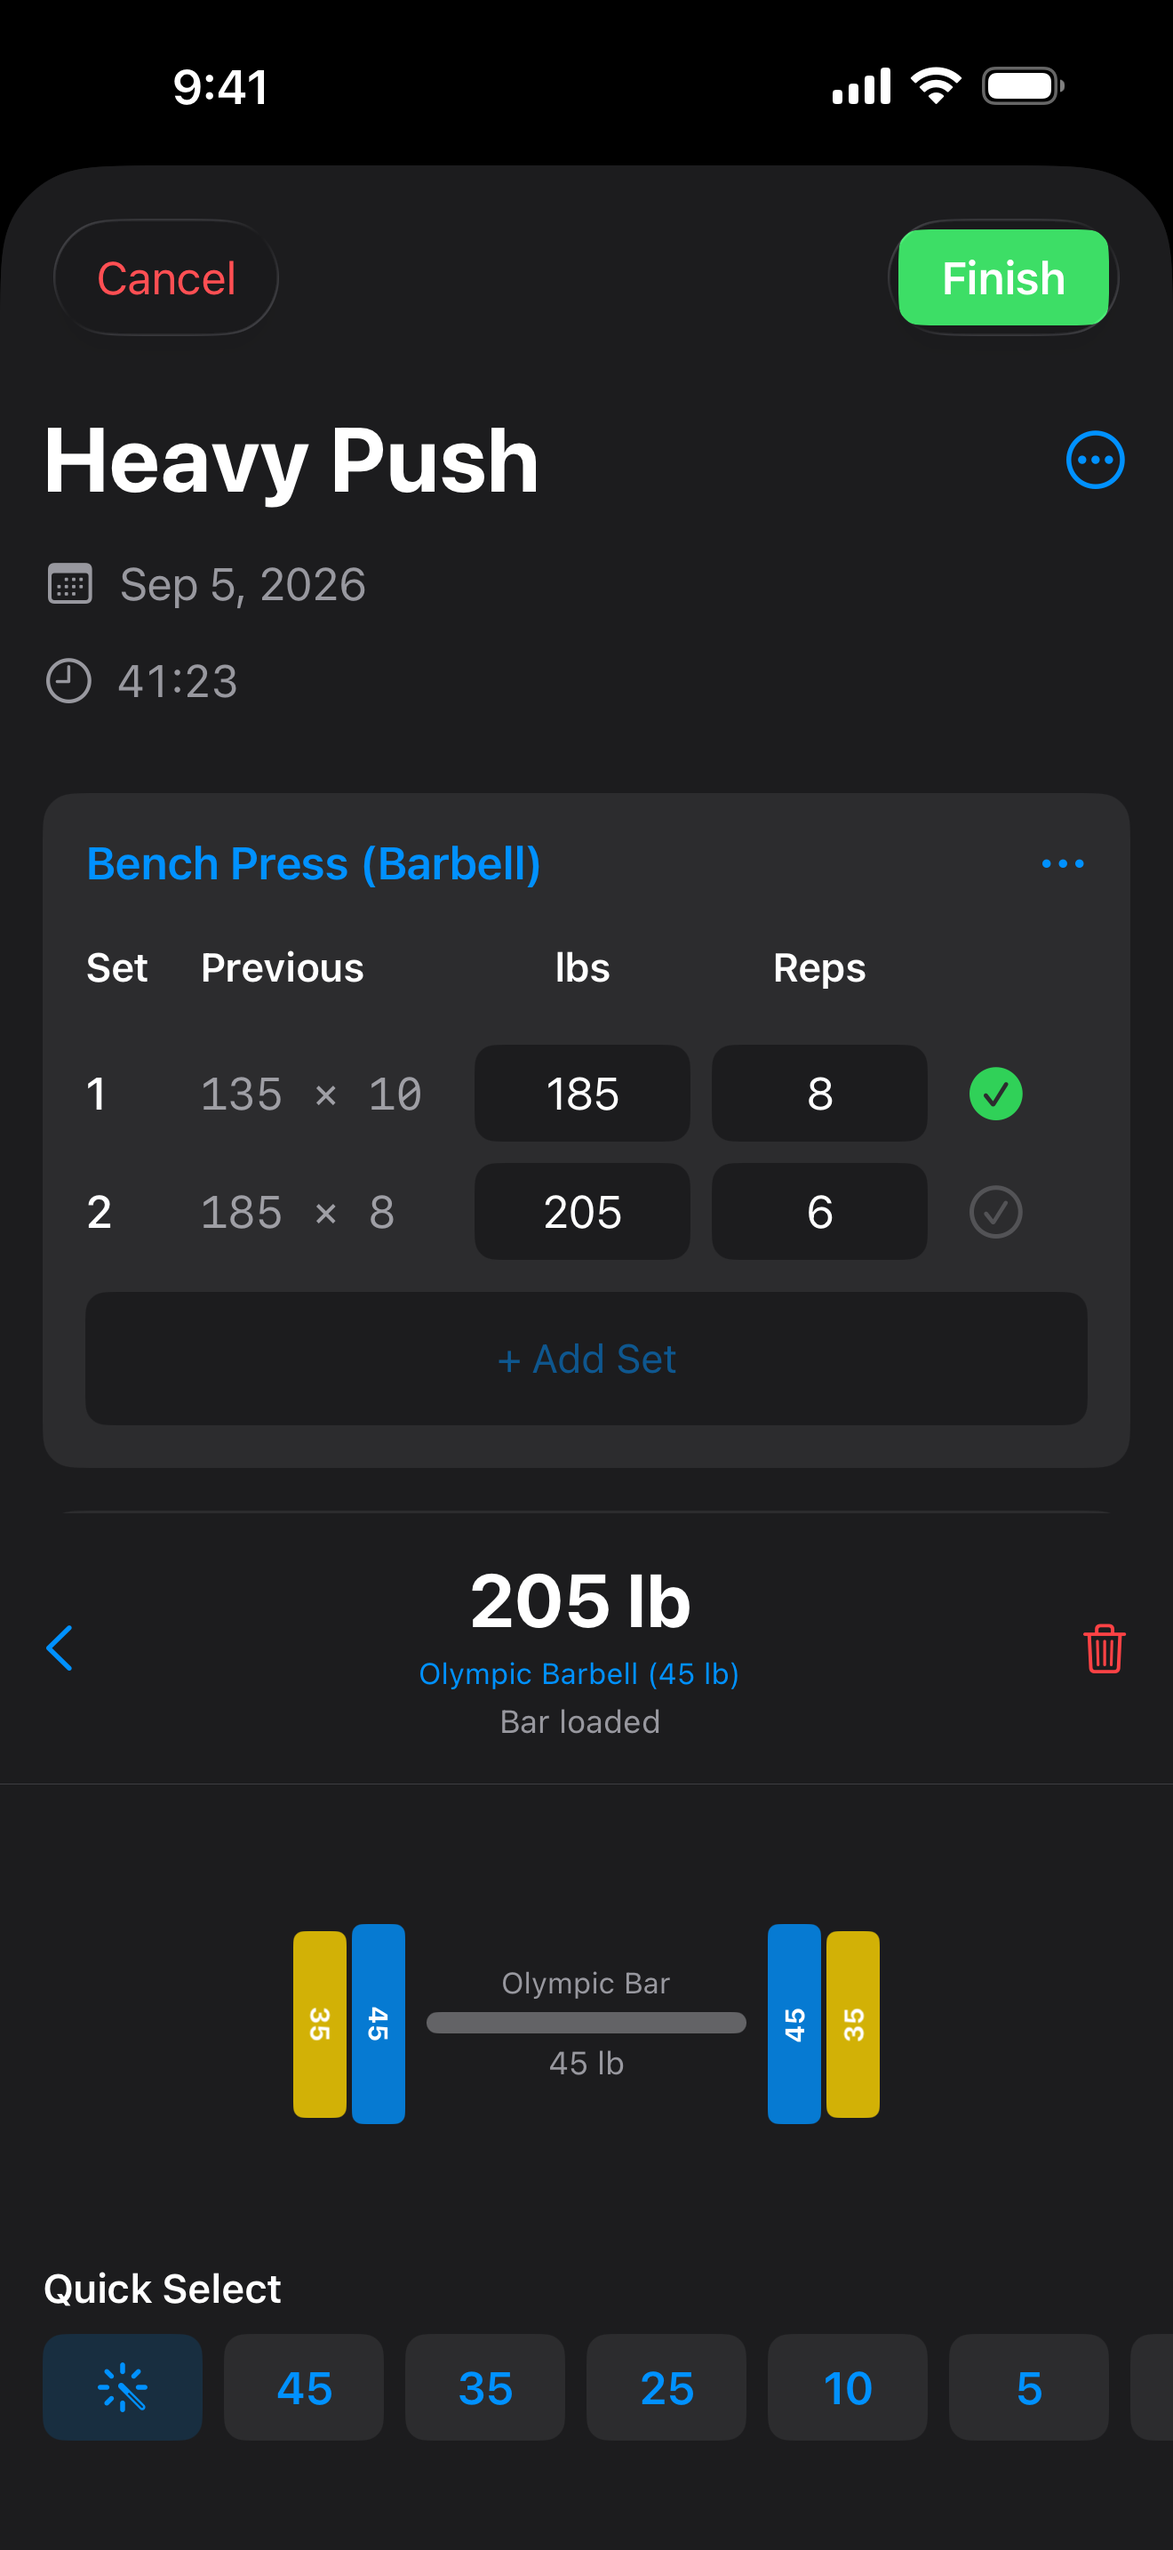
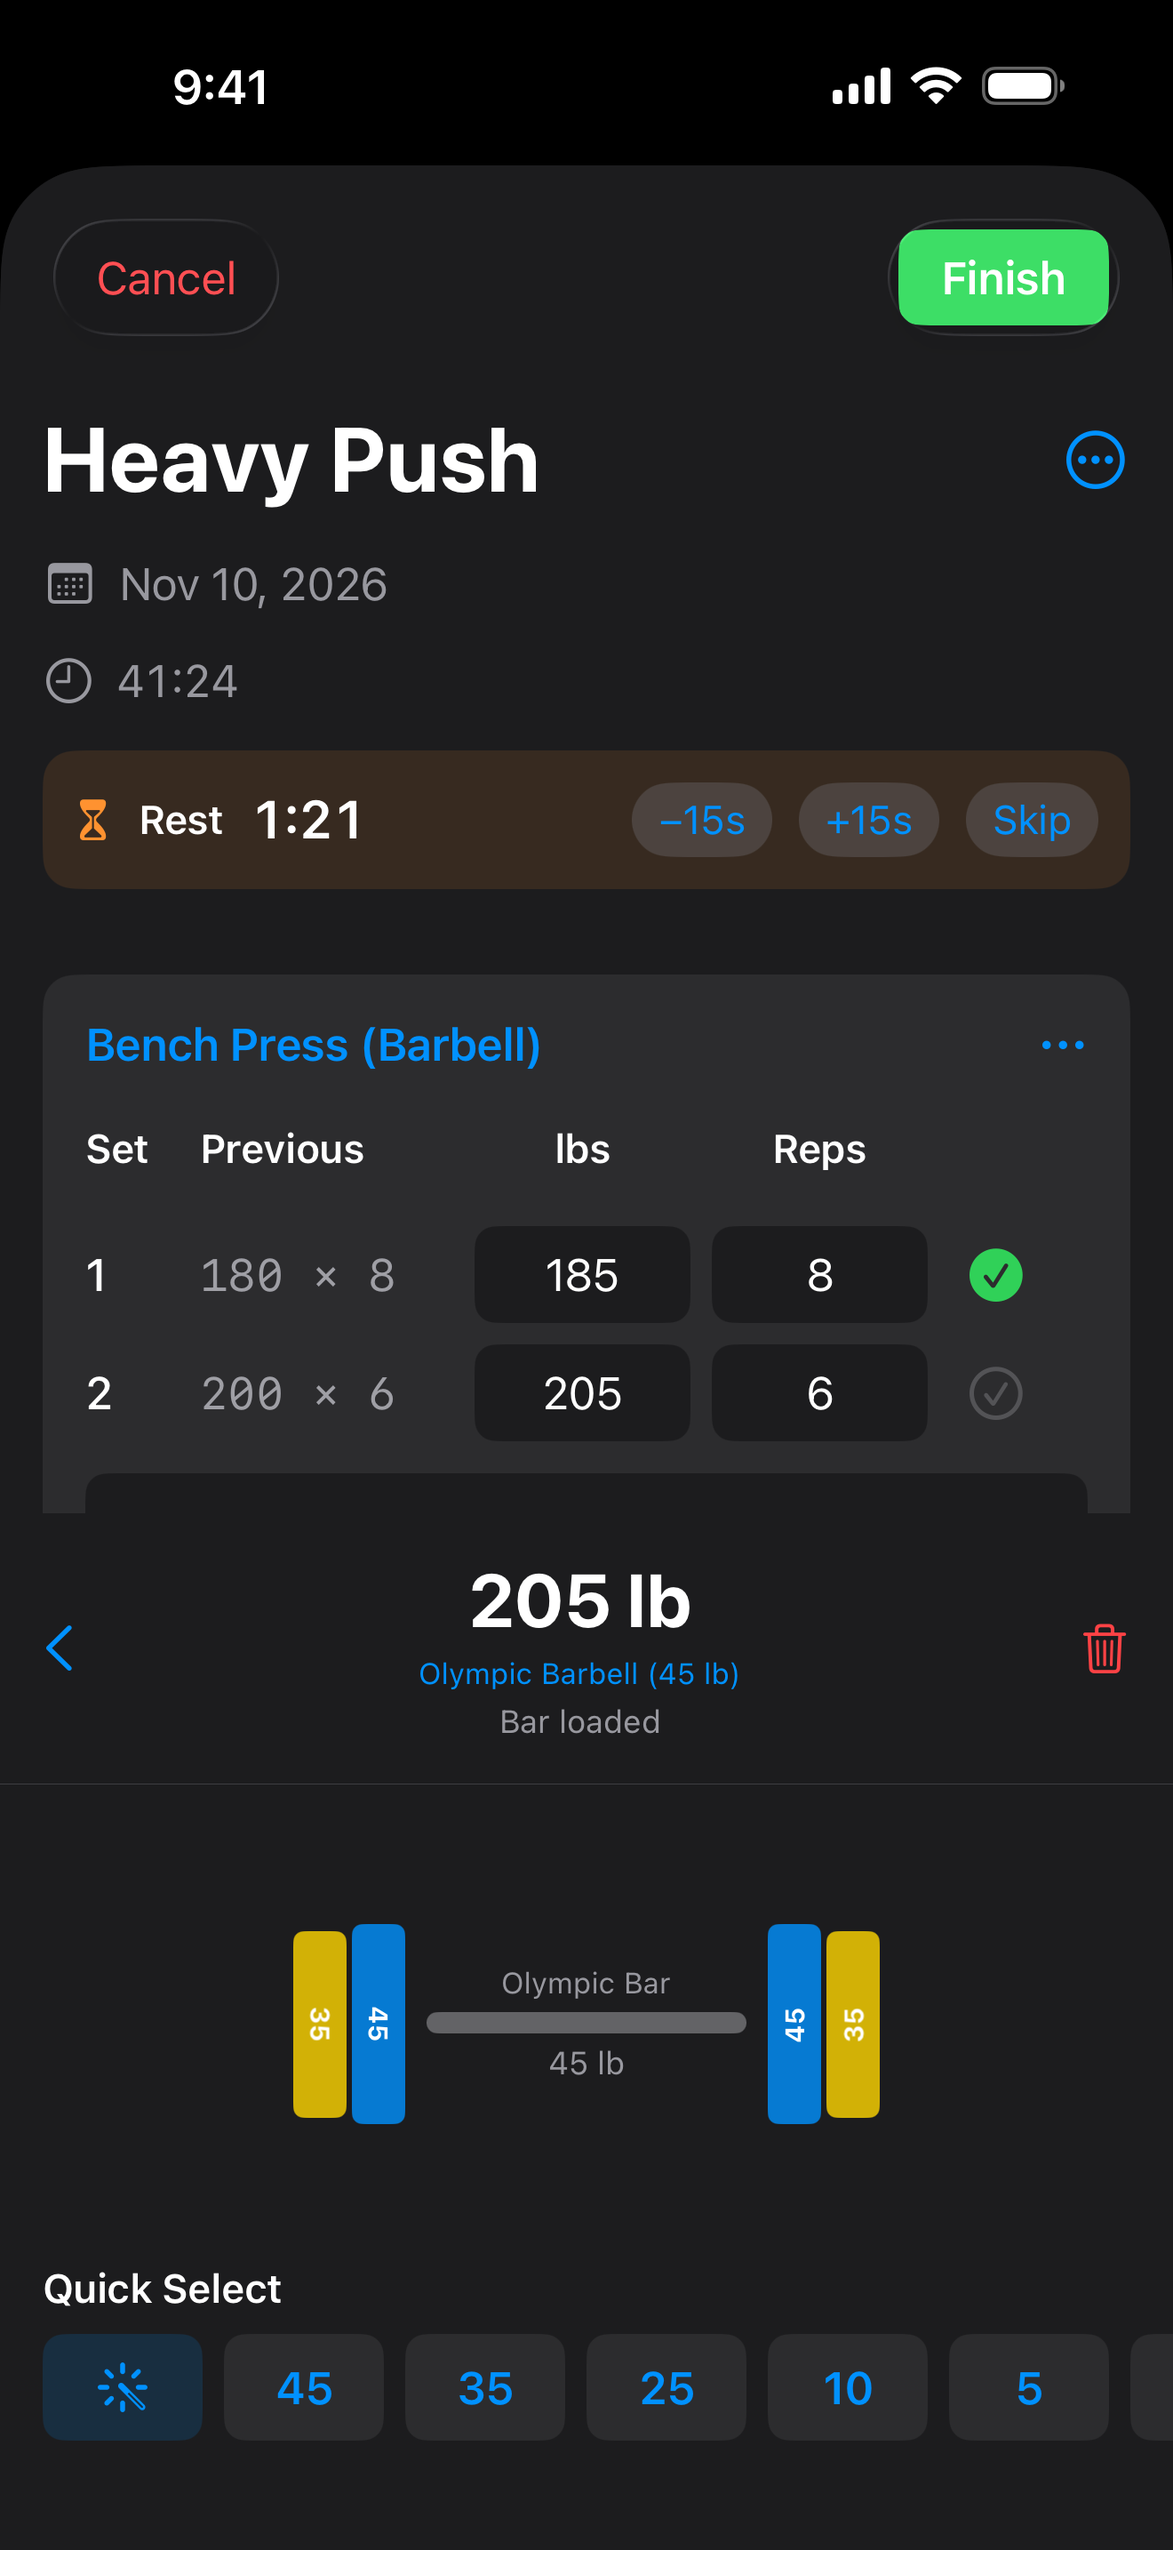
STORY_013: the store screenshots tell the watch story
Shot 1 is the active workout with the watch linked (♥ 128 · On watch, rest counting),
captioned "Start on your Apple Watch"; the old hero moves to shot 3; eight shots per
slot. Ashton is the demo lifter everywhere a screenshot shows a name. FLEX_DEMO_WATCH
gives demo launches a pretend watch through a DEBUG seam in PhoneMirrorHost. All three
sets re-captured on 1.1.0; screenshots.sh clears shotkit's output folder before rendering.

diff --git a/Flex/Flex/Support/DemoMode.swift b/Flex/Flex/Support/DemoMode.swift
@@ -6,15 +6,24 @@ import SwiftData
 ///
 /// - `FLEX_DEMO=sample` (or `1`): in-memory store filled with realistic sample data, signed in, welcome dismissed.
 /// - `FLEX_DEMO=empty`: in-memory store with only the bundled exercise library.
-/// - `FLEX_THEME=Light|Dark|System`, `FLEX_TAB=profile|history|exercises|workout`, `FLEX_USER_NAME=…`,
-///   `FLEX_DEMO_WORKOUT_OFFSET=-2460` (seconds; makes a new workout look like it started 41 minutes ago).
+/// - `FLEX_THEME=Light|Dark|System`, `FLEX_TAB=profile|history|exercises|workout`, `FLEX_USER_NAME=…`
+///   (Ashton unless set, STORY_013),
+///   `FLEX_DEMO_WORKOUT_OFFSET=-2460` (seconds; makes a new workout look like it started 41 minutes ago),
+///   `FLEX_DEMO_WATCH=128` (pretends a watch is linked at that heart rate, so the active workout
+///   shows "♥ 128" and "On watch"; a value that is not a number links with no heart rate, STORY_013).
 struct DemoMode: Sendable {
     typealias Dataset = DemoLaunch.Dataset
+
+    /// `FLEX_DEMO_WATCH`: the watch the phone pretends is linked.
+    struct WatchLink: Sendable, Equatable {
+        let heartRate: Double?
+    }
 
     let dataset: Dataset
     let theme: String?
     let initialTab: String?
     let userName: String
+    let watchLink: WatchLink?
     /// Seconds added to a new workout's start time (negative = "started a while ago"), for screenshots.
     let workoutStartOffset: TimeInterval
     /// `FLEX_DEMO_RESUME=1` keeps a live workout saved by an earlier launch; otherwise a demo launch
@@ -30,7 +39,8 @@ struct DemoMode: Sendable {
         self.dataset = dataset
         theme = environment["FLEX_THEME"]
         initialTab = environment["FLEX_TAB"]?.lowercased()
-        userName = environment["FLEX_USER_NAME"] ?? "Alex"
+        userName = environment["FLEX_USER_NAME"] ?? "Ashton"
+        watchLink = environment["FLEX_DEMO_WATCH"].map { WatchLink(heartRate: Double($0)) }
         workoutStartOffset = DemoLaunch.workoutStartOffset(in: environment)
         resumesLiveWorkout = DemoLaunch.resumesLiveWorkout(in: environment)
     }

diff --git a/Flex/FlexTests/SupportTests.swift b/Flex/FlexTests/SupportTests.swift
@@ -41,11 +41,35 @@ struct SupportTests {
         #expect(sample?.dataset == .sample)
         #expect(sample?.theme == "Dark")
         #expect(sample?.initialTab == "history")
-        #expect(sample?.userName == "Alex")
+        #expect(sample?.userName == "Ashton")
+        #expect(sample?.watchLink == nil)
 
         let empty = DemoMode(environment: ["FLEX_DEMO": "empty", "FLEX_USER_NAME": "Sam"])
         #expect(empty?.dataset == .empty)
         #expect(empty?.userName == "Sam")
+
+        // STORY_013: a pretend watch for the screenshots, at a heart rate or without one.
+        let linked = DemoMode(environment: ["FLEX_DEMO": "1", "FLEX_DEMO_WATCH": "128"])
+        #expect(linked?.watchLink?.heartRate == 128)
+        let linkedNoRate = DemoMode(environment: ["FLEX_DEMO": "1", "FLEX_DEMO_WATCH": "yes"])
+        #expect(linkedNoRate?.watchLink != nil)
+        #expect(linkedNoRate?.watchLink?.heartRate == nil)
+    }
+
+    @MainActor
+    @Test("A demo watch link makes the phone report the watch as linked, at that heart rate")
+    func demoWatchLink() {
+        let host = PhoneMirrorHost(session: LiveWorkoutSession(store: nil, resume: false), healthStore: nil)
+        #expect(host.isLinked == false)
+        #expect(host.watchHeartRate == nil)
+
+        host.demoLink = PhoneMirrorHost.DemoLink(heartRate: 128)
+        #expect(host.isLinked == true)
+        #expect(host.watchHeartRate == 128)
+
+        host.demoLink = PhoneMirrorHost.DemoLink(heartRate: nil)
+        #expect(host.isLinked == true)
+        #expect(host.watchHeartRate == nil)
     }
 
     @Test("Bar types expose readable names")

diff --git a/Flex/FlexUITests/ScreenshotTests.swift b/Flex/FlexUITests/ScreenshotTests.swift
@@ -56,6 +56,18 @@ final class ScreenshotTests: FlexUITestCase {
         try capture("06-summary")
     }
 
+    func testCaptureWatchHero() throws {
+        // Shot 1 (STORY_013): the workout 41 minutes in, the first bench set done, rest counting,
+        // and the watch linked at 128 bpm, so the header reads "♥ 128 · On watch".
+        launch(theme: theme, extra: ["FLEX_DEMO_WORKOUT_OFFSET": "-2472", "FLEX_DEMO_WATCH": "128"])
+        startPushDayWorkout()
+        waitFor(app.descendants(matching: .any)["live-on-watch"])
+        waitFor(app.descendants(matching: .any)["live-heart-rate"])
+        tap(app.buttons["complete-Bench Press (Barbell)-1"])
+        waitFor(app.staticTexts["rest-timer"])
+        try capture("00-watch-hero")
+    }
+
     func testCaptureTemplates() throws {
         launch(theme: theme)
         selectTab("Workout")
@@ -76,6 +88,7 @@ final class ScreenshotTests: FlexUITestCase {
     func testCaptureProfile() throws {
         launch(tab: "profile", theme: theme)
         waitFor(app.staticTexts["Dashboard"])
+        waitFor(app.staticTexts["Ashton"]) // the demo lifter's name on the store shot (STORY_013)
         try capture("05-profile")
     }
 

diff --git a/Flex/Flex/Support/PhoneMirrorHost.swift b/Flex/Flex/Support/PhoneMirrorHost.swift
@@ -25,9 +25,29 @@ final class PhoneMirrorHost: NSObject {
         }
     }
 
+    #if DEBUG
+    /// A pretend watch for demo launches and App Store screenshots (STORY_013): the phone reports
+    /// the watch as linked, at this heart rate, with no Health session behind it.
+    struct DemoLink: Sendable {
+        var heartRate: Double?
+    }
+    var demoLink: DemoLink?
+    #endif
+
     /// True while the watch is showing the same workout.
-    var isLinked: Bool { peer.isLinked }
-    var watchHeartRate: Double? { peer.remoteHeartRate }
+    var isLinked: Bool {
+        #if DEBUG
+        if demoLink != nil { return true }
+        #endif
+        return peer.isLinked
+    }
+
+    var watchHeartRate: Double? {
+        #if DEBUG
+        if let demoLink { return demoLink.heartRate }
+        #endif
+        return peer.remoteHeartRate
+    }
 
     /// Asks watchOS to open Flex on the watch for a workout the phone just started; the watch then
     /// mirrors its Health session here and the two sides exchange state.

diff --git a/Flex/FlexTests/WatchSnapshotTests.swift b/Flex/FlexTests/WatchSnapshotTests.swift
@@ -90,7 +90,7 @@ struct WatchSnapshotTests {
         let now = TestSupport.date(2026, 10, 28, hour: 12)
         let container = try sampleContainer(now: now)
         let context = container.mainContext
-        let snapshot = try WatchSnapshotBuilder.make(context: context, weeklyTarget: 3, restSeconds: 90, userName: "Alex", now: now, sortOrder: .name)
+        let snapshot = try WatchSnapshotBuilder.make(context: context, weeklyTarget: 3, restSeconds: 90, userName: "Ashton", now: now, sortOrder: .name)
 
         let data = try FlexJSON.encoder.encode(snapshot)
         #expect(try FlexJSON.decoder.decode(WatchSnapshot.self, from: data) == snapshot)

diff --git a/Flex/Flex/FlexApp.swift b/Flex/Flex/FlexApp.swift
@@ -56,6 +56,8 @@ struct FlexKeyApp: App {
             sync = CloudKitSyncMonitor(simulatedStatus: .synced)
             live = LiveWorkoutSession(store: .default(), resume: demo.resumesLiveWorkout)
             mirror = PhoneMirrorHost(session: live, healthStore: nil)
+            // FLEX_DEMO_WATCH: the screenshots' pretend watch (STORY_013).
+            mirror.demoLink = demo.watchLink.map { PhoneMirrorHost.DemoLink(heartRate: $0.heartRate) }
             demoActive = true
         } else {
             container = Self.makeModelContainer()

diff --git a/Flex/FlexUITests/FlexUITestCase.swift b/Flex/FlexUITests/FlexUITestCase.swift
@@ -17,7 +17,7 @@ class FlexUITestCase: XCTestCase {
         app.launchEnvironment["FLEX_DEMO"] = dataset
         app.launchEnvironment["FLEX_TAB"] = tab
         app.launchEnvironment["FLEX_THEME"] = theme
-        app.launchEnvironment["FLEX_USER_NAME"] = "Alex"
+        app.launchEnvironment["FLEX_USER_NAME"] = "Ashton"
         for (key, value) in extra {
             app.launchEnvironment[key] = value
         }

diff --git a/Flex/FlexUITests/WorkoutFlowUITests.swift b/Flex/FlexUITests/WorkoutFlowUITests.swift
@@ -3,7 +3,7 @@ import XCTest
 final class WorkoutFlowUITests: FlexUITestCase {
     func testTabsLoadWithSampleData() {
         launch(tab: "profile")
-        waitFor(app.staticTexts["Alex"])
+        waitFor(app.staticTexts["Ashton"])
         waitFor(app.staticTexts["Dashboard"])
 
         selectTab("History")

diff --git a/Flex/FlexWatch/WatchSampleData.swift b/Flex/FlexWatch/WatchSampleData.swift
@@ -53,7 +53,7 @@ extension WatchSnapshot {
             workoutsThisWeek: 2,
             weeklyTarget: 3,
             restSeconds: 90,
-            userName: "Alex"
+            userName: "Ashton"
         )
     }()
 }

diff --git a/docs/story/STORY_013_the_store_screenshots_tell_the_watch_story.md b/docs/story/STORY_013_the_store_screenshots_tell_the_watch_story.md
@@ -2,7 +2,8 @@
 
 **Status:** Drafted 2026-11-10 from the owner's picker answers (refresh the phone set with a
 watch-first hero shot; Ashton is the lifter in every screenshot); the mockup below approved by the
-owner the same day through the picker. STORY_012's upload waits on it. [EPIC_001](../epic/EPIC_001_flex_on_apple_watch.md)
+owner the same day through the picker. Done 2026-11-10: all three sets re-captured and rendered,
+tests gate green. STORY_012's upload waits on it. [EPIC_001](../epic/EPIC_001_flex_on_apple_watch.md)
 row 13.
 
 As Kevin, I want the iPhone and iPad screenshots to open on the watch and to show Ashton as the
@@ -36,23 +37,28 @@ calculator stays at shot 2 because shots 1 and 2 are what search results show.
 
 ## Acceptance Criteria
 
-- [ ] A DEBUG-only demo seam makes `PhoneMirrorHost` report the watch as linked with a heart rate
+- [x] A DEBUG-only demo seam makes `PhoneMirrorHost` report the watch as linked with a heart rate
       from the launch environment (`FLEX_DEMO_WATCH=128`), so the active-workout header shows
       "♥ 128" and "On watch" in a demo launch (`Flex/Flex/Views/Workout/ActiveWorkoutView.swift`
       shows both only when `mirrorHost.isLinked`). `Support/DemoMode.swift` documents the variable.
-- [ ] The demo lifter is Ashton everywhere a screenshot can show a name: the default in
+- [x] The demo lifter is Ashton everywhere a screenshot can show a name: the default in
       `Support/DemoMode.swift`, the launch helper in `FlexUITests/FlexUITestCase.swift`,
       `FlexWatch/WatchSampleData.swift`, and the tests that assert the name.
-- [ ] `FlexUITests/ScreenshotTests.swift` captures `00-watch-hero` (Heavy Push 41 minutes in,
+- [x] `FlexUITests/ScreenshotTests.swift` captures `00-watch-hero` (Heavy Push 41 minutes in,
       set 1 done, rest counting, "♥ 128", "On watch") with `FLEX_DEMO_WATCH=128`, and the profile
       capture asserts "Ashton" on screen.
-- [ ] `appstore/screenshots/shots.json` gains the hero as shot 1 (caption "Start on your
+- [x] `appstore/screenshots/shots.json` gains the hero as shot 1 (caption "Start on your
       **Apple Watch**", subcaption "Log sets from your wrist, phone in the locker"), moves the old
       hero to shot 3, and the eight shots render for `iphone-6.9` and `ipad-13`.
-- [ ] `appstore/asc_meta.json`'s `screenshots` map lists the eight stems in order for both slots;
+- [x] `appstore/asc_meta.json`'s `screenshots` map lists the eight stems in order for both slots;
       `appstore/SUBMISSION.md` and `appstore/screenshots/README.md` describe the new set.
-- [ ] `scripts/screenshots.sh` regenerates all three sets from the 1.1.0 build and
+- [x] `scripts/screenshots.sh` regenerates all three sets from the 1.1.0 build and
       `../launch/bin/launch preflight flex` passes on them.
+      Corrected while building (2026-11-10): preflight's screenshot checks pass (counts, sizes,
+      alpha, every listed file present); preflight as a whole still fails on three findings outside
+      this story, Launch's ten-language rule, a reason for the iOS 18 floor (added to the meta as
+      `min_ios` the same day, STORY_012), and an iPhone Duo warning for April 2027. Also found:
+      shotkit never clears its output folder, so `scripts/screenshots.sh` now does before rendering.
 
 ## Testing Plan
 

diff --git a/appstore/SUBMISSION.md b/appstore/SUBMISSION.md
@@ -26,17 +26,18 @@ uploaded this way on 2026-09-05.
 ## Screenshots
 
 Upload from `appstore/screenshots/out/` in numeric order. Shots 1–2 are the ones
-that appear in App Store search results.
+that appear in App Store search results. The demo lifter in every capture is Ashton (STORY_013).
 
 | # | Screen | Caption | Subcaption |
 |---|---|---|---|
-| 1 | Active workout with the custom keypad open, previous-lift column visible | Log every set **in seconds** | Custom keypad, last lift right beside it |
+| 1 | Active workout 41 minutes in with the watch linked: ♥ 128, On watch, rest counting (STORY_013) | Start on your **Apple Watch** | Log sets from your wrist, phone in the locker |
 | 2 | Plate calculator (callout card over the workout) | Know what to **load on the bar** | Plate calculator for every barbell lift |
-| 3 | Workout tab with folder expanded | Routines ready **in one tap** | Templates and folders for every split |
-| 4 | History | Every workout, **every PR** | Volume, duration and records at a glance |
-| 5 | Profile dashboard | Hit your **weekly goal** | Dashboard charts your consistency |
-| 6 | Workout summary | Finish strong, **share it** | A summary you can send to your crew |
-| 7 | Exercise library | Hundreds of exercises, **plus your own** | Search by body part or create custom moves |
+| 3 | Active workout with the custom keypad open, previous-lift column visible | Log every set **in seconds** | Custom keypad, last lift right beside it |
+| 4 | Workout tab with folder expanded | Routines ready **in one tap** | Templates and folders for every split |
+| 5 | History | Every workout, **every PR** | Volume, duration and records at a glance |
+| 6 | Profile dashboard (reads "Ashton") | Hit your **weekly goal** | Dashboard charts your consistency |
+| 7 | Workout summary | Finish strong, **share it** | A summary you can send to your crew |
+| 8 | Exercise library | Hundreds of exercises, **plus your own** | Search by body part or create custom moves |
 
 iPad overrides: hero subcaption reads "A custom keypad built for the gym floor" (the keypad covers the
 previous-lift column in the iPad form sheet); all iPad captions sit on one line except shot 7.

diff --git a/appstore/screenshots/README.md b/appstore/screenshots/README.md
@@ -19,7 +19,8 @@ The app has a DEBUG-only launch hook (`Support/DemoMode.swift`):
 | `FLEX_DEMO=empty` | In-memory store with only the bundled exercise library |
 | `FLEX_THEME=Dark` | Forces the theme without touching UserDefaults |
 | `FLEX_TAB=workout` | Initial tab (`profile`, `history`, `exercises`, `workout`) |
-| `FLEX_USER_NAME=Alex` | Display name |
+| `FLEX_USER_NAME=Ashton` | Display name (Ashton is the demo lifter everywhere, STORY_013) |
+| `FLEX_DEMO_WATCH=128` | Pretends a watch is linked at that heart rate, so the active workout shows "♥ 128" and "On watch" (STORY_013) |
 
 `FlexUITests/ScreenshotTests.swift` launches with those variables, drives the UI to each
 state and writes `XCUIScreen.main.screenshot()` to `FLEX_SCREENSHOT_DIR`
@@ -28,6 +29,7 @@ to 9:41 / full battery with `simctl status_bar` before the run.
 
 | Raw file | App state |
 |---|---|
+| `00-watch-hero` | HEAVY DUTY PUSH 41 minutes in, first bench set done, rest counting, the watch linked (`FLEX_DEMO_WATCH=128`); shot 1 |
 | `01-templates` | Workout tab, "Heavy Duty" folder expanded |
 | `02-active-workout` | HEAVY DUTY PUSH started from its template, first bench set completed |
 | `03-plate-calculator` | Second bench set weight → keypad → plate calculator |
